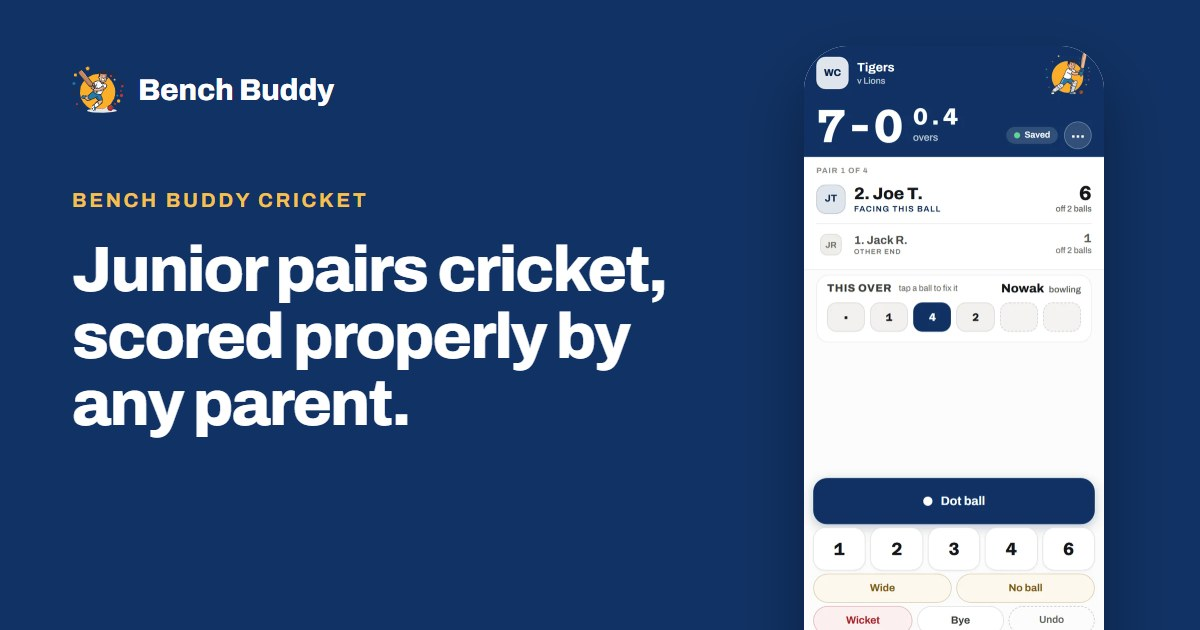
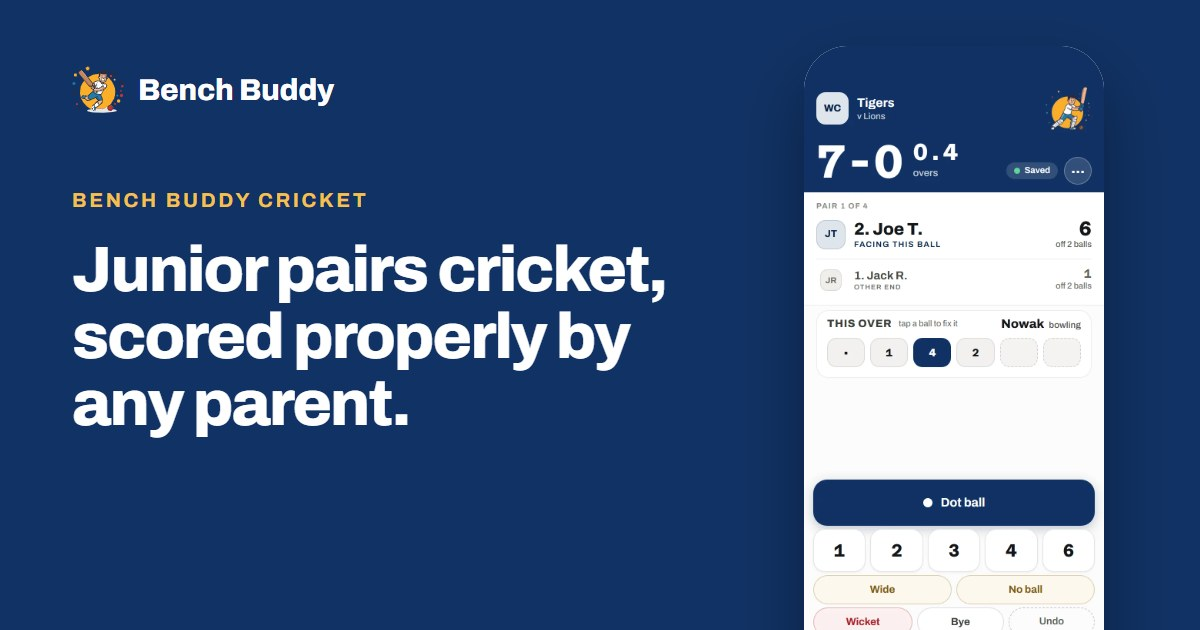
Hero phones: recapture screens with room at the top so the mascot isn't clipped, and draw a status bar and notch

diff --git a/marketing/index.html b/marketing/index.html
@@ -66,8 +66,8 @@
       </div>
     </div>
     <div class="cb-hero__phones">
-      <div class="cb-phone cb-phone--back"><img src="assets/cricket/hero-scorecard.webp" alt="The scorecard in Bench Buddy Cricket: batting pairs, runs and balls, and the bowling figures" width="600" height="1299"></div>
-      <div class="cb-phone cb-phone--front"><img src="assets/cricket/hero-live-scoring.webp" alt="Live scoring in Bench Buddy Cricket: the score, the pair at the crease, this over, and one-tap run buttons" width="600" height="1299"></div>
+      <div class="cb-phone cb-phone--back"><img src="assets/cricket/hero-scorecard.webp" alt="The scorecard in Bench Buddy Cricket: batting pairs, runs and balls, and the bowling figures" width="780" height="1688"><span class="cb-status" aria-hidden="true"><span class="cb-status__time">9:41</span><span class="cb-status__island"></span><span class="cb-status__icons"><svg viewBox="0 0 18 12"><rect x="0" y="8" width="3" height="4" rx=".8"/><rect x="5" y="5.5" width="3" height="6.5" rx=".8"/><rect x="10" y="3" width="3" height="9" rx=".8"/><rect x="15" y="0" width="3" height="12" rx=".8"/></svg><svg viewBox="0 0 16 12"><path d="M8 11.4 5.9 9.2a3 3 0 0 1 4.2 0zM3.6 6.9a6.2 6.2 0 0 1 8.8 0l-1.3 1.3a4.4 4.4 0 0 0-6.2 0zM1.3 4.6a9.4 9.4 0 0 1 13.4 0l-1.3 1.3a7.6 7.6 0 0 0-10.8 0z"/></svg><svg viewBox="0 0 27 13" class="cb-status__batt"><rect x=".6" y=".6" width="22.8" height="11.8" rx="3.4" fill="none" stroke-width="1" opacity=".5"/><rect x="2.2" y="2.2" width="19.6" height="8.6" rx="2.2"/><rect x="24.6" y="4.2" width="1.8" height="4.6" rx=".9" opacity=".5"/></svg></span></span></div>
+      <div class="cb-phone cb-phone--front"><img src="assets/cricket/hero-live-scoring.webp" alt="Live scoring in Bench Buddy Cricket: the score, the pair at the crease, this over, and one-tap run buttons" width="780" height="1688"><span class="cb-status" aria-hidden="true"><span class="cb-status__time">9:41</span><span class="cb-status__island"></span><span class="cb-status__icons"><svg viewBox="0 0 18 12"><rect x="0" y="8" width="3" height="4" rx=".8"/><rect x="5" y="5.5" width="3" height="6.5" rx=".8"/><rect x="10" y="3" width="3" height="9" rx=".8"/><rect x="15" y="0" width="3" height="12" rx=".8"/></svg><svg viewBox="0 0 16 12"><path d="M8 11.4 5.9 9.2a3 3 0 0 1 4.2 0zM3.6 6.9a6.2 6.2 0 0 1 8.8 0l-1.3 1.3a4.4 4.4 0 0 0-6.2 0zM1.3 4.6a9.4 9.4 0 0 1 13.4 0l-1.3 1.3a7.6 7.6 0 0 0-10.8 0z"/></svg><svg viewBox="0 0 27 13" class="cb-status__batt"><rect x=".6" y=".6" width="22.8" height="11.8" rx="3.4" fill="none" stroke-width="1" opacity=".5"/><rect x="2.2" y="2.2" width="19.6" height="8.6" rx="2.2"/><rect x="24.6" y="4.2" width="1.8" height="4.6" rx=".9" opacity=".5"/></svg></span></span></div>
     </div>
   </div>
 </section>

diff --git a/marketing/cricket.css b/marketing/cricket.css
@@ -81,6 +81,16 @@ button { font-family: inherit; }
 .cb-phone--back { position: absolute; left: 20px; top: 56px; width: 250px; height: 541px; border-radius: 38px; box-shadow: 0 30px 60px rgba(20, 22, 26, .14), 0 0 0 1px rgba(0, 0, 0, .06); }
 .cb-phone--front { position: absolute; right: 20px; top: 0; width: 270px; height: 584px; border-radius: 40px; box-shadow: 0 30px 60px rgba(20, 22, 26, .2), 0 0 0 1px rgba(0, 0, 0, .06); }
 
+/* The phone status bar and notch drawn over the top of a screenshot. Sizes scale with the phone: --s is the phone width over the 390px the screenshot was taken at. */
+.cb-phone--back { --s: calc(250 / 390); }
+.cb-phone--front { --s: calc(270 / 390); }
+.cb-status { position: absolute; left: 0; right: 0; top: 0; height: calc(46px * var(--s)); pointer-events: none; color: #fff; }
+.cb-status__time { position: absolute; left: calc(36px * var(--s)); top: calc(15px * var(--s)); font: 600 calc(16px * var(--s)) / 1 var(--sans); letter-spacing: -.01em; }
+.cb-status__island { position: absolute; left: 50%; top: calc(10px * var(--s)); width: calc(118px * var(--s)); height: calc(32px * var(--s)); margin-left: calc(-59px * var(--s)); border-radius: 999px; background: #0b0d10; }
+.cb-status__icons { position: absolute; right: calc(30px * var(--s)); top: calc(16px * var(--s)); display: flex; align-items: center; gap: calc(6px * var(--s)); }
+.cb-status__icons svg { height: calc(12px * var(--s)); width: auto; fill: #fff; stroke: #fff; }
+.cb-status__icons .cb-status__batt { height: calc(13px * var(--s)); }
+
 /* Early clubs */
 .cb-early__inner { max-width: 1240px; margin: 0 auto; padding: 0 40px 88px; }
 .cb-early__panel { background: var(--amber-bg); border-radius: 28px; padding: 44px 48px; display: grid; grid-template-columns: minmax(0, 1fr) minmax(0, 1.6fr); gap: 48px; align-items: start; }
